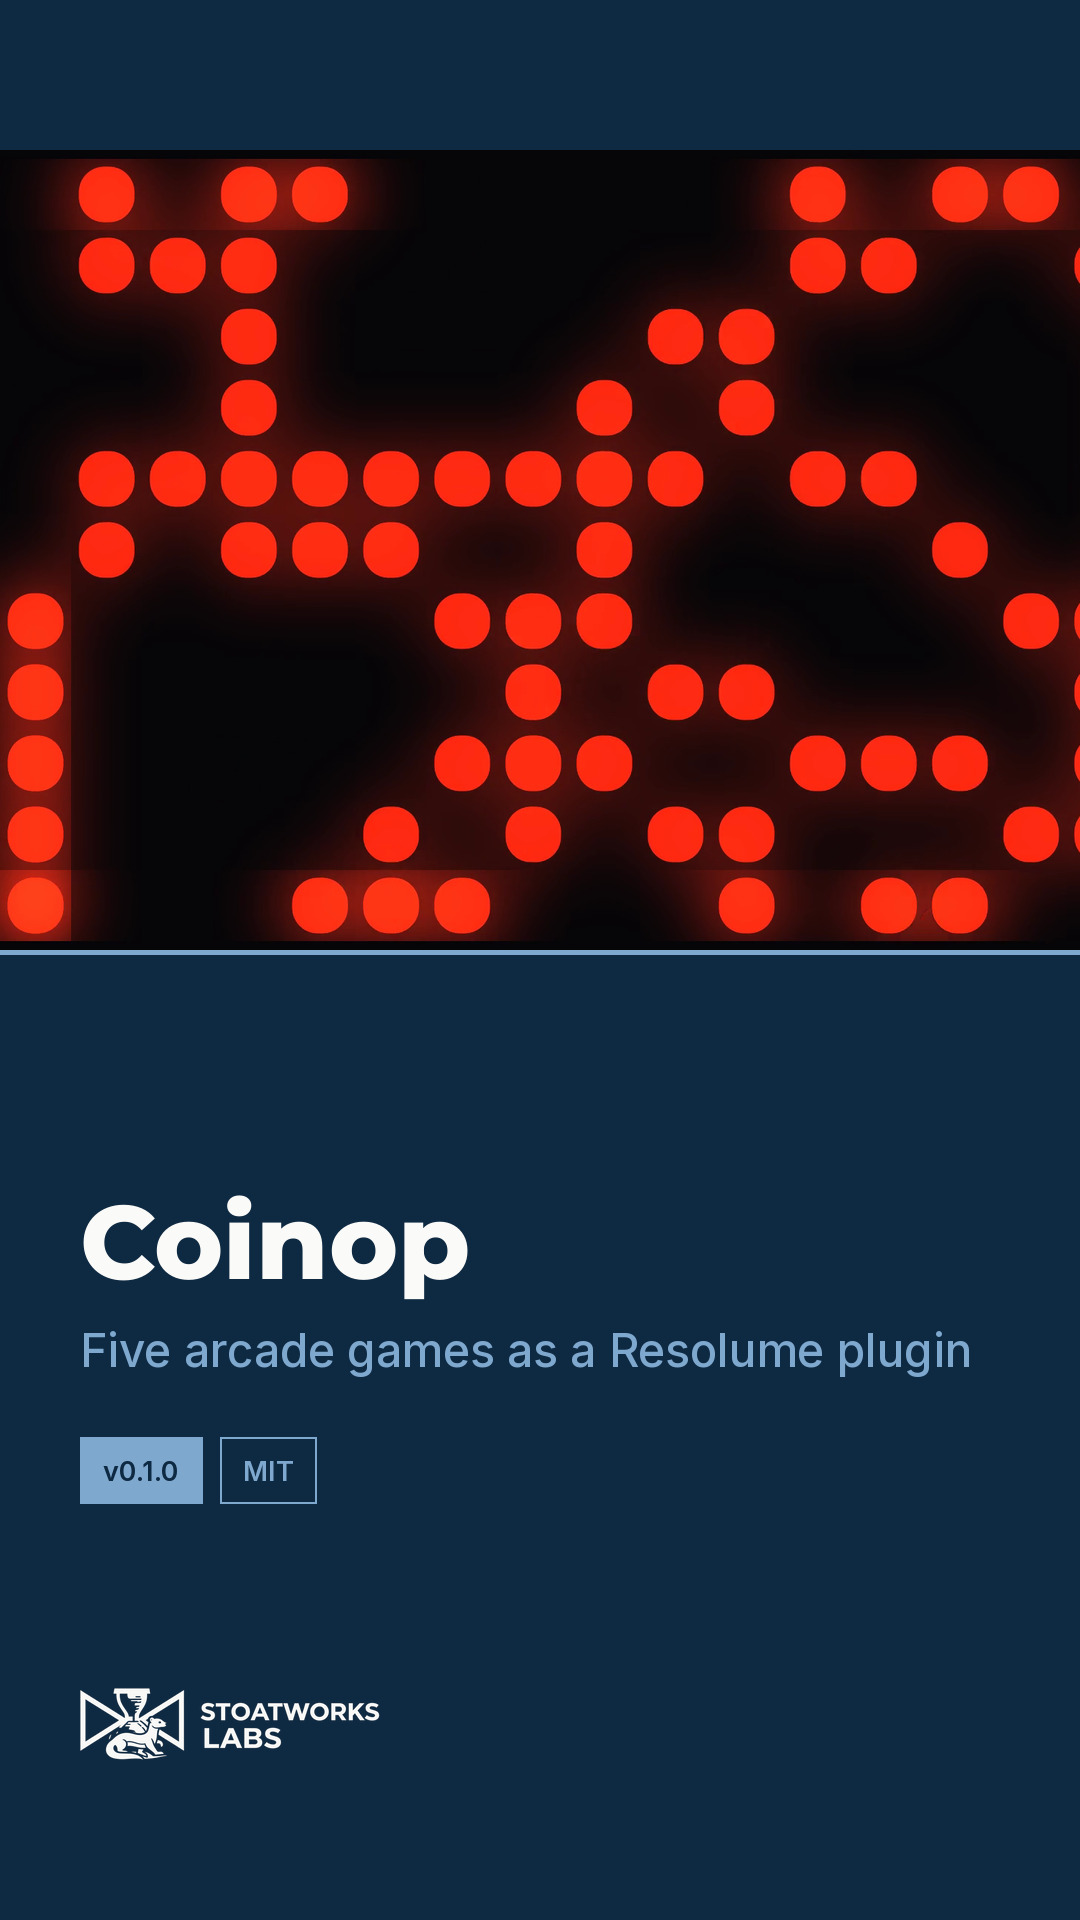
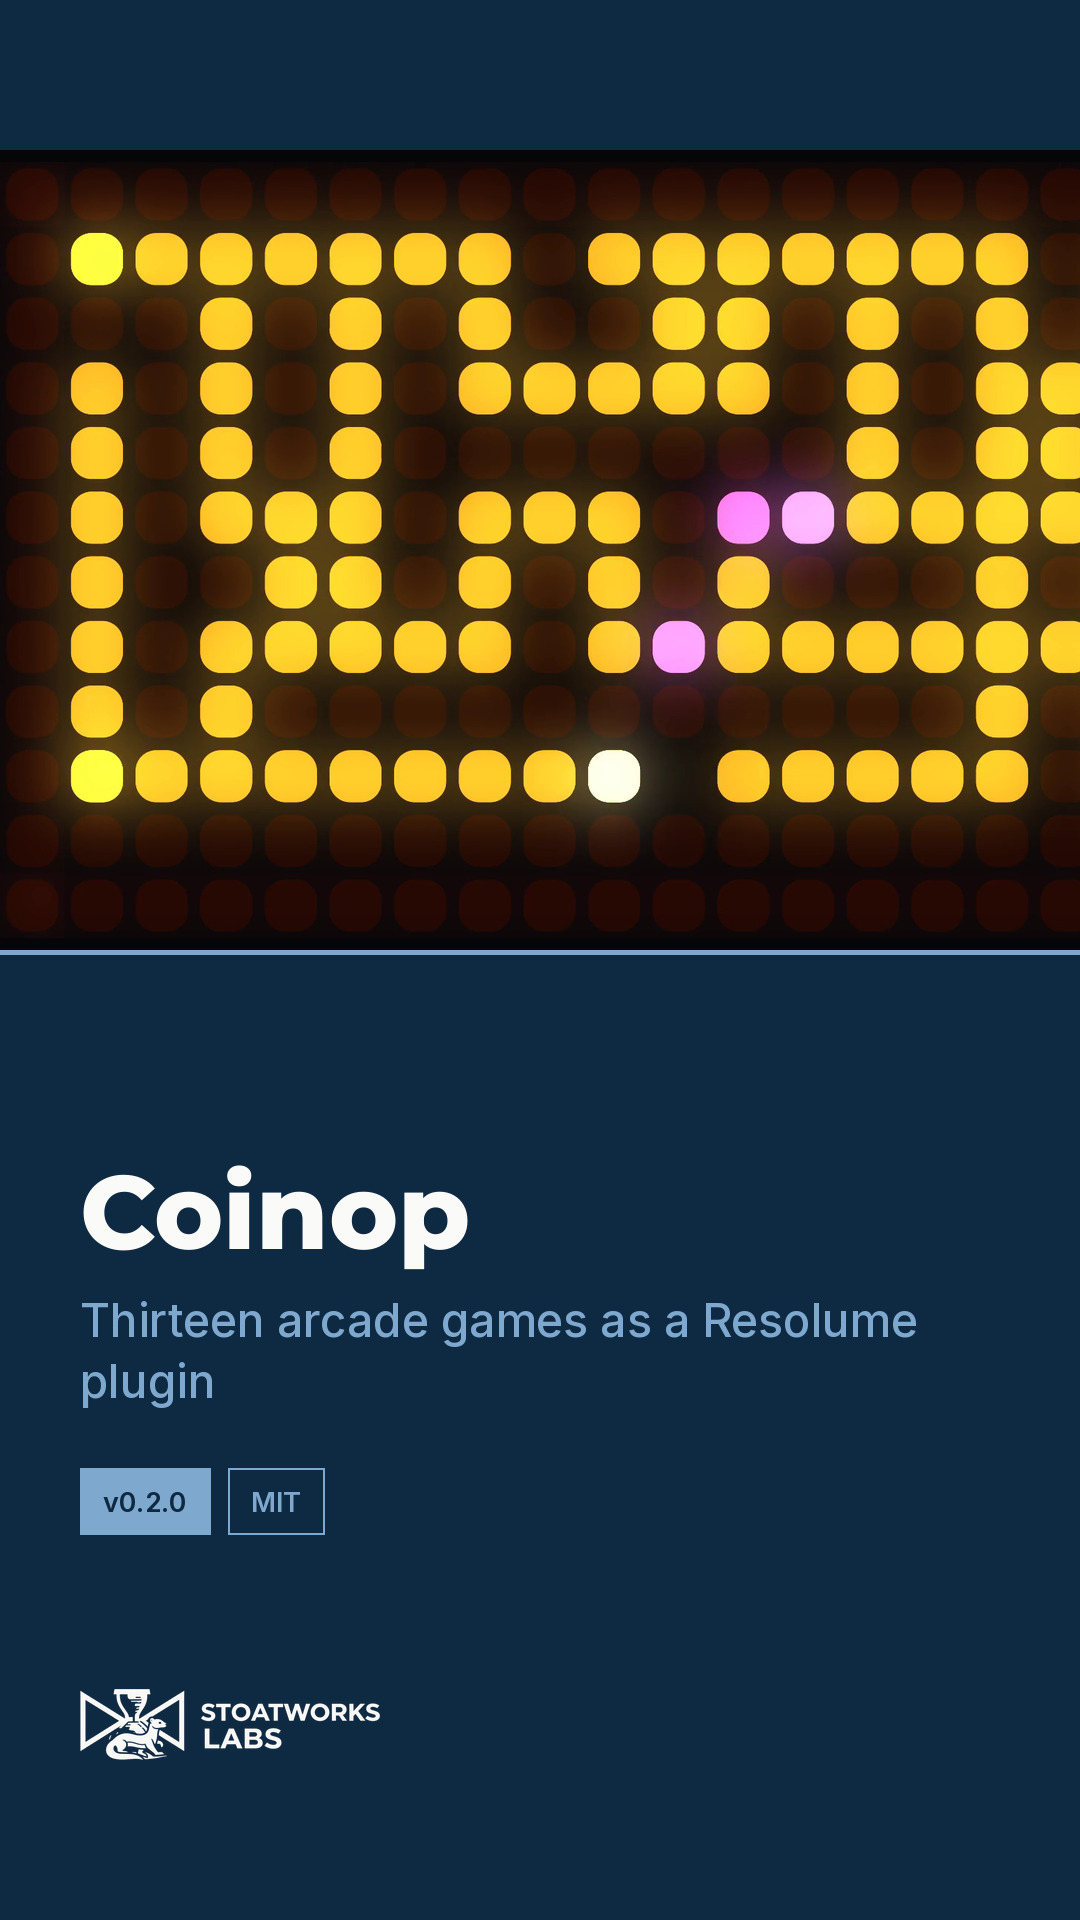
The v0.2.0 video: a new cut, and both links kept
The 7-day rule in the release checklist says to replace a video this
young, but both stay up here on purpose: the v0.1.0 cut is a good tour
of the original five games and this one is deliberately not -- re-filming
those would be a video of the part of the plugin that did not change.
So the README points at the new one and keeps the old one beside it.

The cue sheet is the eight new games plus the pixel-map ending. Two
things in it are load-bearing rather than taste:

- Per-segment grids. Several of these are sparse at 32 cells across and
  read as mostly black at video size; Duel at 21 cells is the same game
  and a legible picture.
- The ending is on Chase. Changing `Game` restarts the simulation, and
  the pixel-map shot needs a full field of cells on its first frame.
  Trails was tried and a five-second-old light-cycle board is nearly
  empty, which is the one thing that shot cannot be. A maze starts full
  of pellets.

Video: https://www.youtube.com/watch?v=SNqhfKOn-xs
Reel:  https://www.instagram.com/reel/DbtmPDRjNAo/

diff --git a/README.md b/README.md
@@ -13,7 +13,8 @@ Thirteen playable arcade games for [Resolume](https://resolume.com) Arena and
 Avenue, as a pair of FFGL plugins. Driven by MIDI or OSC, or left to play
 themselves.
 
-**Video:** [What it does, in 52 seconds](https://www.youtube.com/watch?v=DZyiCXpSt98)
+**Video:** [The eight games v0.2.0 added, in 58 seconds](https://www.youtube.com/watch?v=SNqhfKOn-xs)
+ · [the original five, from v0.1.0](https://www.youtube.com/watch?v=DZyiCXpSt98)
 
 ![Chase, Trails, Stacker and Girders, on four of the six palettes](docs/hero.png)
 
